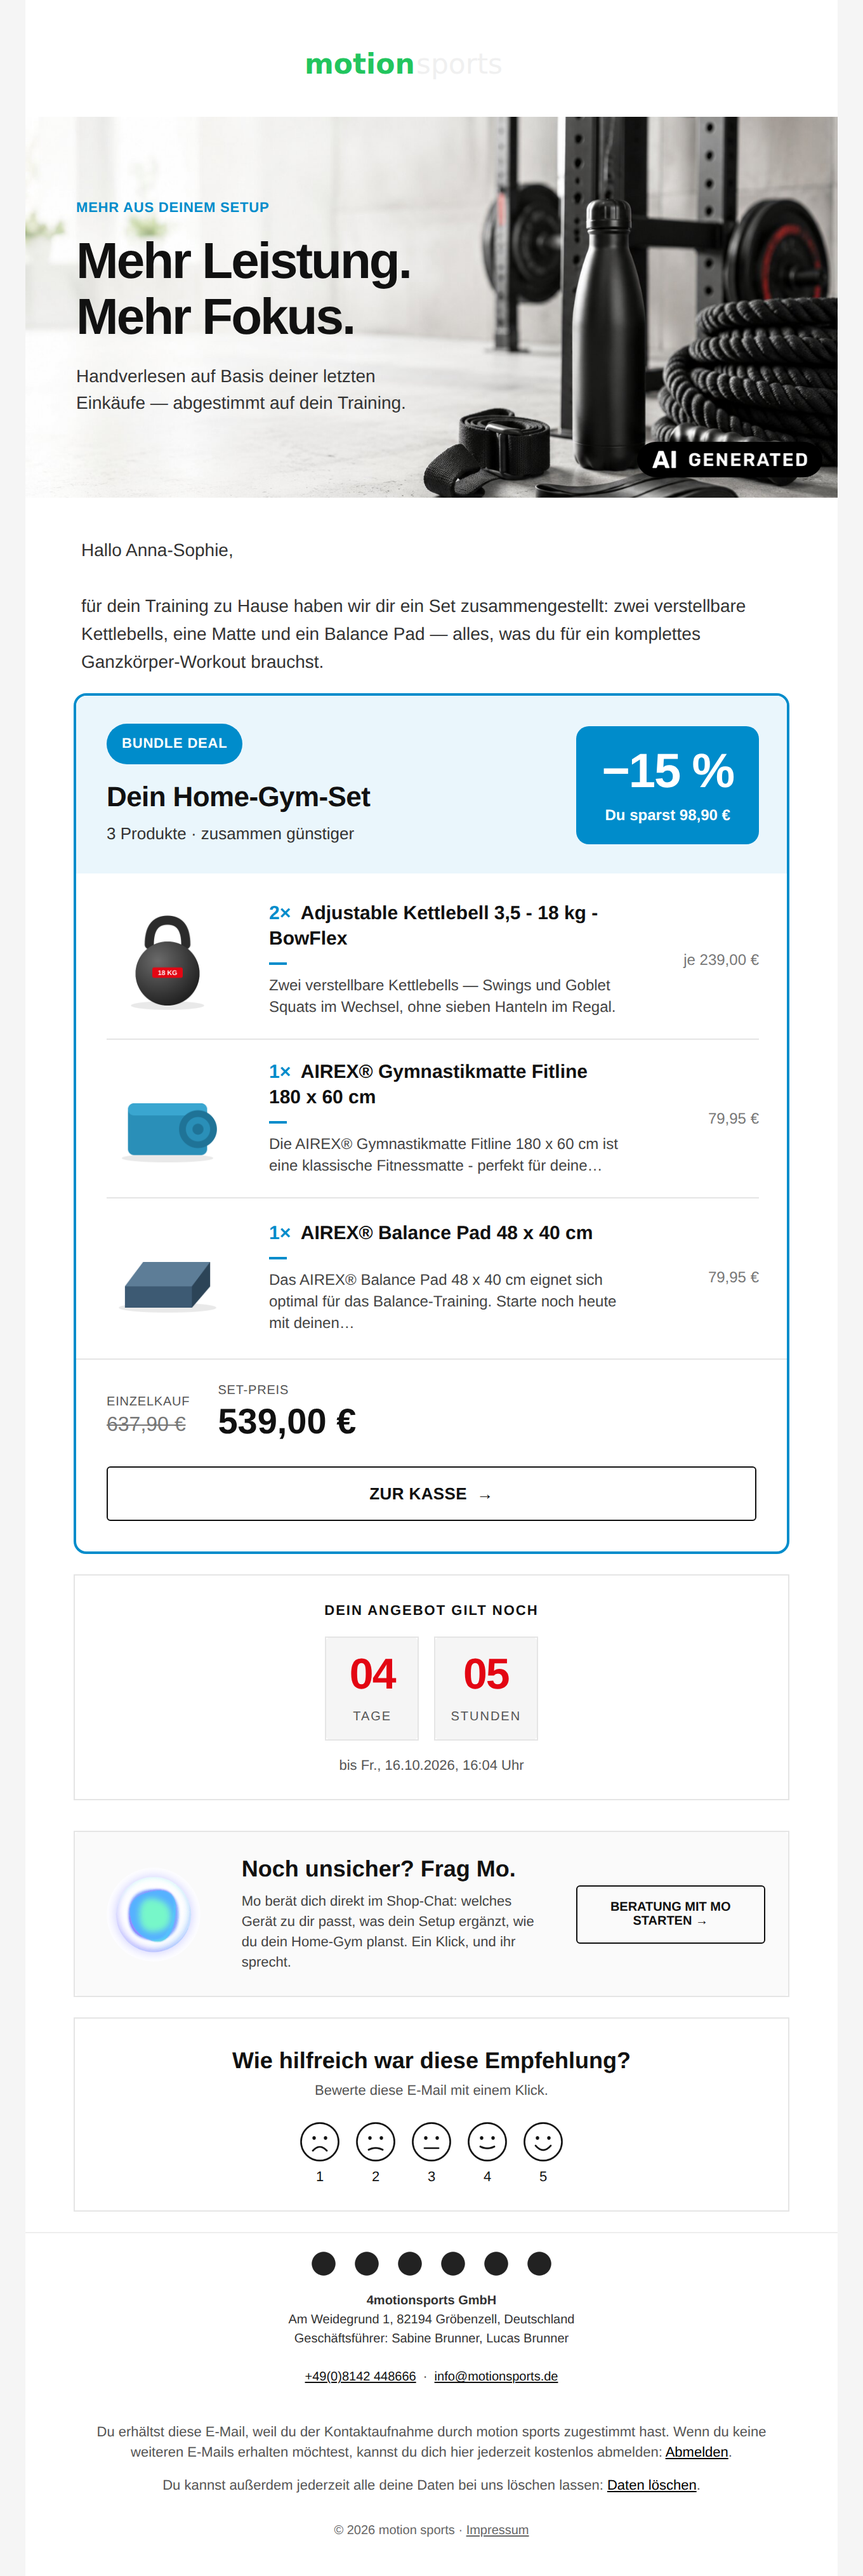
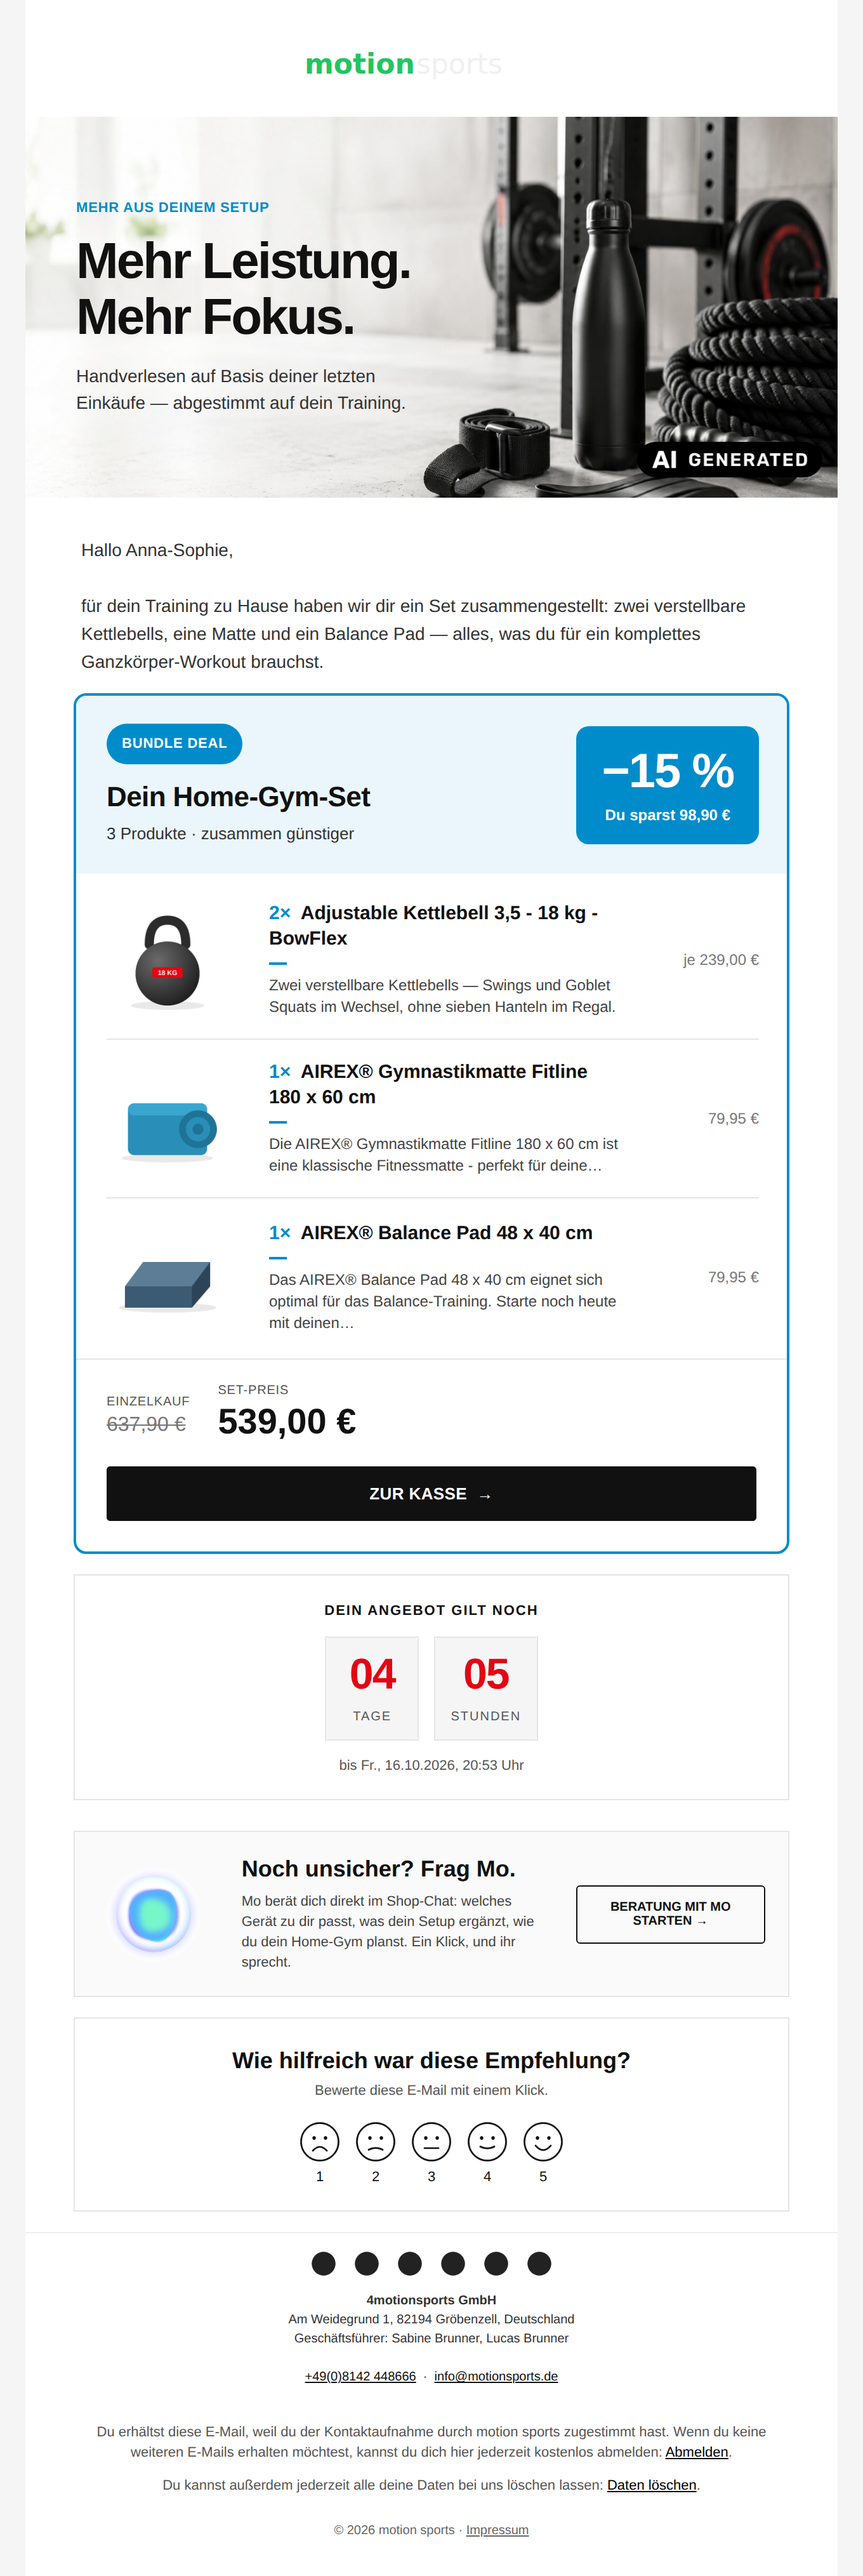
Performance set block: solid black „Zur Kasse“ with white text
The outline button was hard to see under the set price. The set's one
purchase action is now solid black (#111111) with white bold capitals; the
black also sits on the table cell so Outlook, which ignores an anchor's
background, still shows it. „Code einlösen“ and „Zum Produkt“ keep the
outline look. Screenshots of the Performance set mail updated.

Claude-Session: https://claude.ai/code/session_012fxHBW88bMmfRpyx9fu3p7

Changed region(s): [[0.1235, 0.5589, 0.8956, 0.5899]]

diff --git a/src/lib/email-designs/performance.ts b/src/lib/email-designs/performance.ts
@@ -3,13 +3,14 @@
 // CTA — or, in the campaign mail, no button and the picture linking to the
 // shop —, large lifestyle image), bordered product CARDS with price + black
 // outline button, the SET card (one 2px blue frame: saving eyecatcher, item
-// rows, price summary, „Zur Kasse“), the COUPON card and the offer COUNTDOWN
-// in the same light card style (blue badges and rules, black set price, black
-// outline buttons, red digits on light-grey tiles),
+// rows, price summary, a solid black „Zur Kasse“), the COUPON card and the
+// offer COUNTDOWN in the same light card style (blue badges and rules, black
+// set price, black outline buttons, red digits on light-grey tiles),
 // the "Frag Mo" advisor panel, the black-and-white smiley rating, and a clean
 // minimal footer. Everything sits on white — no dark blocks. Text links and
-// the short rules under card titles are BLUE; every card button uses the
-// black outline look of „Beratung mit Mo starten“ (owner, 06.10.2026).
+// the short rules under card titles are BLUE; the card buttons use the black
+// outline look of „Beratung mit Mo starten“ (owner, 06.10.2026) — except the
+// set's „Zur Kasse“, solid black with white text (owner, 12.10.2026).
 //
 // Personalisation hooks:
 //   - HERO IMAGE: activeEmailRenderData().heroImageUrl (the operator-generated
@@ -181,12 +182,29 @@ function redButton(cta: EmailCta, block = false, className = ""): string {
 
 /**
  * The black outline look of „Beratung mit Mo starten“ (white, 1px black
- * border, black bold capitals), full width — the set deal's „Zur Kasse“ and
- * the coupon's „Code einlösen“.
+ * border, black bold capitals), full width — the coupon's „Code einlösen“.
  */
 function outlineBlockButton(cta: EmailCta): string {
   return `
                     <a href="${escapeAttr(cta.url)}" target="_blank" style="display:block; background:#ffffff; color:#111111; border:1px solid #111111; text-align:center; padding:13px 24px; border-radius:3px; font-family:${FONT}; font-size:13px; font-weight:700; letter-spacing:0.2px; text-decoration:none;">${escapeHtml(cta.label.toUpperCase())}&nbsp;&nbsp;&#8594;</a>`;
+}
+
+/**
+ * The set's „Zur Kasse“: solid black with white bold capitals, full width —
+ * the one purchase action of a set mail, so it stands out from the outline
+ * card buttons (owner, 12.10.2026). The black also sits on the table cell
+ * (bgcolor) so Outlook, which ignores an anchor's background and padding,
+ * still shows a black button with white text.
+ */
+function solidBlockButton(cta: EmailCta): string {
+  return `
+                    <table role="presentation" width="100%" cellpadding="0" cellspacing="0" border="0" style="width:100%;">
+                      <tr>
+                        <td align="center" bgcolor="#111111" style="background:#111111; border-radius:3px;">
+                          <a href="${escapeAttr(cta.url)}" target="_blank" style="display:block; background:#111111; color:#ffffff; border:1px solid #111111; text-align:center; padding:13px 24px; border-radius:3px; font-family:${FONT}; font-size:13px; font-weight:700; letter-spacing:0.2px; text-decoration:none;"><span style="color:#ffffff;">${escapeHtml(cta.label.toUpperCase())}&nbsp;&nbsp;&#8594;</span></a>
+                        </td>
+                      </tr>
+                    </table>`;
 }
 
 /** The product cards' „Zum Produkt“: the same black outline look, compact. */
@@ -399,7 +417,7 @@ function bundleBlock(input: BundleOfferBlockInput, c: BundleBlockComputed): stri
                             <tr>${summaryCells}
                             </tr>
                           </table>
-                          ${outlineBlockButton({ label: c.labels.cta, url: input.offerUrl })}
+                          ${solidBlockButton({ label: c.labels.cta, url: input.offerUrl })}
                         </td>
                       </tr>
                     </table>

diff --git a/docs/EMAIL_DESIGNS.md b/docs/EMAIL_DESIGNS.md
@@ -62,10 +62,12 @@ a white disc (`public/email-rating-1.png` … `-5.png`, shown at 32 px, alt text
 „sehr gut“) — emoji would render in colour in every mail client.
 
 **Performance colours and buttons (owner, 06.10.2026).** Text links and the short rule under card
-headlines are blue (`#008ccb`, like the badges); every card button — „Zum Produkt“ (single-product
-cards only; the set's item rows have none), „Zur Kasse“, „Code einlösen“ — has the black outline
+headlines are blue (`#008ccb`, like the badges); the card buttons „Zum Produkt“ (single-product
+cards only; the set's item rows have none) and „Code einlösen“ have the black outline
 look of „Beratung mit Mo starten“ (white, 1 px `#111111`
-border, black bold capitals). Red remains for the filled primary call-to-action buttons (the hero
+border, black bold capitals). The set's **„Zur Kasse“** — the one purchase action of a set mail —
+is solid black (`#111111`) with white bold capitals (owner, 12.10.2026; the black also sits on the
+table cell so Outlook shows it). Red remains for the filled primary call-to-action buttons (the hero
 button and extra CTA rows of non-campaign mails, the `ctaButton` hook), a reduced price next to the
 struck-through old one, and the countdown digits.
 
@@ -184,7 +186,7 @@ design:
 
 Performance: a 2 px blue (`#008ccb`) frame with a 10 px radius, a pale-blue eyecatcher band
 (`#eaf6fc`) with the blue pill and a solid blue badge, the rows with the blue stroke of the product
-cards, the black outline „Zur Kasse“ button. Classic: a 2 px frame and the badge in
+cards, the solid black „Zur Kasse“ button with white text. Classic: a 2 px frame and the badge in
 `emailAccentColor()`, the band a light tint of it (`tintHex`), the theme's CTA button
 (`renderCtaButton`) under the „Dein persönliches Angebot“ band — Studio inherits this with its black
 accent and square button. On phones (shell media rules) the eyecatcher stacks centred and each row
